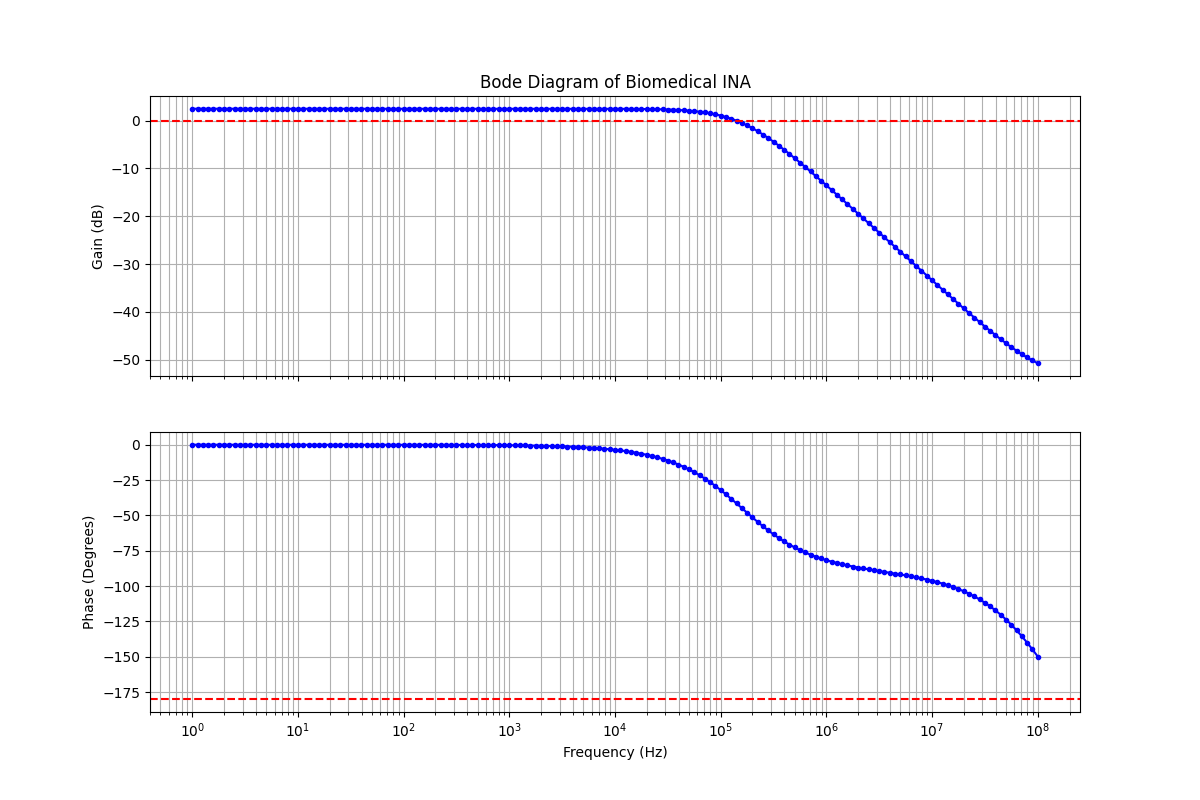
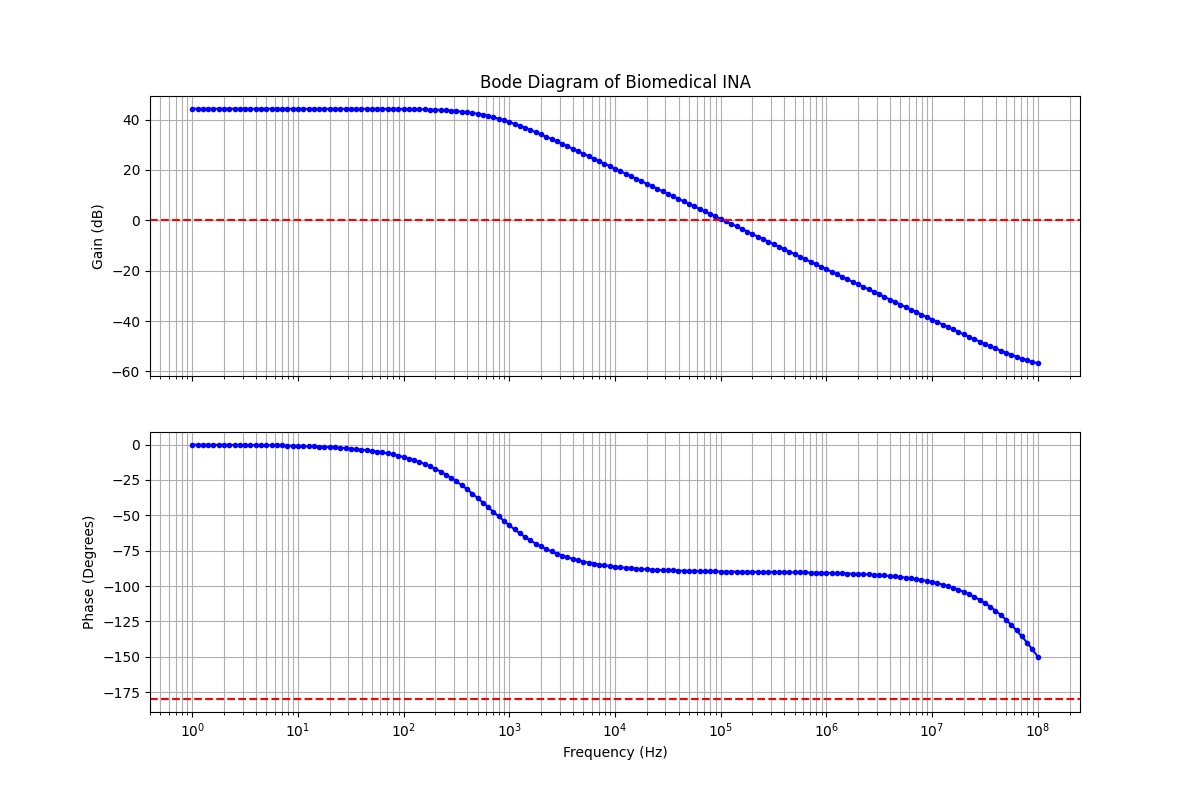
adding a cmfb circuit

diff --git a/pyspice/fdda_simulator.py b/pyspice/fdda_simulator.py
@@ -77,6 +77,45 @@ XMN10 net6 Vb2 0 0 sky130_fd_pr__nfet_01v8 L={params['L_5']} {g_5} sa=0 sb=0 sd=
     with open('fdda.spice', 'w') as f:
         f.write(content)
 
+def generate_cmfb(params):
+    def get_geom_string(w, nf):
+
+        w_val = float(w)
+        nf_val = int(nf)
+        
+        return (
+            f"W={w_val} nf={nf_val} "
+            f"ad='int(({nf_val}+1)/2) * {w_val}/{nf_val} * 0.29' "
+            f"as='int(({nf_val}+2)/2) * {w_val}/{nf_val} * 0.29' "
+            f"pd='2*int(({nf_val}+1)/2) * ({w_val}/{nf_val} + 0.29)' "
+            f"ps='2*int(({nf_val}+2)/2) * ({w_val}/{nf_val} + 0.29)' "
+            f"nrd='0.29 / {w_val}' nrs='0.29 / {w_val}'"
+        )
+
+    # Individual geometry strings for every group
+    g_1  = get_geom_string(params['W_1'], params['nf_1'])
+    g_4  = get_geom_string(params['W_4'], params['nf_4'])
+    g_5  = get_geom_string(params['W_5'], params['nf_5'])
+    g_6  = get_geom_string(params['W_6'], params['nf_6'])
+
+    content=f"""*CMFB auto generated
+.subckt CMFB VDD Vop Von Vcm Vb2 Vcmfb
+
+XMP9 n1 n1 VDD VDD sky130_fd_pr__pfet_01v8 L={params['L_1']} {g_1} sa=0 sb=0 sd=0
+XMP10 n2 n2 VDD VDD sky130_fd_pr__pfet_01v8 L={params['L_1']} {g_1} sa=0 sb=0 sd=0
+XMP13 Vcmfb Vcmfb VDD VDD sky130_fd_pr__pfet_01v8 L={params['L_6']} {g_6} sa=0 sb=0 sd=0
+XMN1 n1 Vop  nt1 0 sky130_fd_pr__nfet_01v8 L={params['L_4']} {g_4} sa=0 sb=0 sd=0
+XMN2 Vcmfb Vcm  nt1 0 sky130_fd_pr__nfet_01v8 L={params['L_4']} {g_4} sa=0 sb=0 sd=0
+XMN5 Vcmfb Vcm  nt2 0 sky130_fd_pr__nfet_01v8 L={params['L_4']} {g_4} sa=0 sb=0 sd=0
+XMN6 n2 Von  nt2 0 sky130_fd_pr__nfet_01v8 L={params['L_4']} {g_4} sa=0 sb=0 sd=0
+XMN7 nt1 Vb2 0 0 sky130_fd_pr__nfet_01v8 L={params['L_5']} {g_5} sa=0 sb=0 sd=0
+XMN8 nt2 Vb2 0 0 sky130_fd_pr__nfet_01v8 L={params['L_5']} {g_5} sa=0 sb=0 sd=0
+
+.ends CMFB
+
+"""
+    with open('cmfb.spice', 'w') as f:
+        f.write(content)
 
 
 def run_simulation(mode):
@@ -96,25 +135,28 @@ set no_note
 .param mc_pr_switch=0
 .lib /foss/pdks/sky130A/libs.tech/ngspice/sky130.lib.spice tt
 .include /foss/designs/os-ina-pso-mixdes_2026/pyspice/fdda.spice
+.include /foss/designs/os-ina-pso-mixdes_2026/pyspice/cmfb.spice
 """
     # pdk_path = '/foss/pdks/sky130A/libs.tech/ngspice/sky130.lib.spice'
     # circuit.lib('/foss/pdks/sky130A/libs.tech/ngspice/sky130.lib.spice', 'tt')
     # circuit.include('Opamp.spice')
 
     circuit.X('X1', 'FDDA', 'VDD', 'Vpp', 'Vpn', 'Vnp', 'Vnn', 'Vcmfb', 'Vb1', 'Vb2', 'Vb3', 'Vb4', 'Von', 'Vop')
+    circuit.X('X2', 'CMFB', 'VDD', 'Vop', 'Von', 'Vcm', 'Vb2', 'Vcmfb')
     
     circuit.V('vdd', 'VDD', circuit.gnd, 1.8@u_V)
     circuit.V('vb1', 'Vb1', circuit.gnd, 0.776@u_V)
     circuit.V('vb2', 'Vb2', circuit.gnd, 0.665@u_V)
     circuit.V('vb3', 'Vb3', circuit.gnd, 0.898@u_V)
     circuit.V('vb4', 'Vb4', circuit.gnd, 0.579@u_V)
-    # circuit.V('vb5', 'Vcmfb', circuit.gnd, 0.762@u_V)
-    circuit.R('rcm1', 'Vop', 'Vcm_sense', 1@u_MOhm)
-    circuit.R('rcm2', 'Von', 'Vcm_sense', 1@u_MOhm)
-    circuit.V('vcm', 'Vcmfb', 'Vcm_sense', 0@u_V)
+    circuit.V('vcm', 'Vcm', circuit.gnd, 0.9@u_V)
+    # circuit.V('vcmfb', 'Vcmfb', circuit.gnd, 0.76@u_V)
+    # circuit.R('rcm1', 'Vop', 'Vcm_sense', 1@u_MOhm)
+    # circuit.R('rcm2', 'Von', 'Vcm_sense', 1@u_MOhm)
+    # circuit.V('vcm', 'Vcmfb', 'Vcm_sense', 0@u_V)
     
-    circuit.C('load_p', 'Vop', circuit.gnd, 1@u_pF)
-    circuit.C('load_n', 'Von', circuit.gnd, 1@u_pF)
+    circuit.C('load_p', 'Vop', circuit.gnd, 2@u_pF)
+    circuit.C('load_n', 'Von', circuit.gnd, 2@u_pF)
     
 
 
@@ -142,6 +184,7 @@ set no_note
         # Check DC levels before looking at AC results
         print(f"DC Vop: {float(op_analysis.nodes['Vop'][0]):.3f} V")
         print(f"DC Von: {float(op_analysis.nodes['Von'][0]):.3f} V")
+        print(f"DC Vcmfb: {float(op_analysis.nodes['Vcmfb'][0]):.3f} V")
 
         freq = np.array(analysis.frequency)
         vout = analysis.nodes['Vop'] - analysis.nodes['Von']
@@ -228,29 +271,40 @@ set no_note
         print(f"I-Quiescent : {abs(iq)*1e6:.2f} uA")
 
     elif mode == 'TRANS':
-        circuit.V('vpp', 'Vpp', circuit.gnd, 'SIN(0.9V 1mV 100Hz)') 
-        circuit.V('vpn', 'Vpn', circuit.gnd, 'SIN(0.9V -1mV 100Hz)')
-        circuit.V('vnn', 'Vnn', circuit.gnd, 'dc 0.9')
-        circuit.V('vnp', 'Vnp', circuit.gnd, 'dc 0.9')
-        # circuit.V('cm', 'cm_node', circuit.gnd, 0.9@u_V)
+        # 1. Define Differential Inputs (Pair 1 active, Pair 2 grounded at DC)
+        # Using 10mV amplitude to see a clear output without railing 1.8V
+        circuit.V('vpp', 'Vpp', circuit.gnd, 'SIN(0.9V 10mV 100Hz)') 
+        circuit.V('vpn', 'Vpn', circuit.gnd, 'SIN(0.9V -10mV 100Hz)')
+        
+        # Pair 2 stays at Common Mode
+        circuit.V('vnp', 'Vnp', circuit.gnd, '0.9V')
+        circuit.V('vnn', 'Vnn', circuit.gnd, '0.9V')
 
-        simulator = circuit.simulator()
-        analysis = simulator.transient(step_time=10@u_us, end_time=50@u_ms)
+        simulator = circuit.simulator(simulator='ngspice-subprocess')
+        # Simulate for 3 full cycles of 100Hz (30ms)
+        analysis = simulator.transient(step_time=50@u_us, end_time=30@u_ms)
 
+        # 2. Extract results using lowercase node names
         time = np.array(analysis.time)
-        vout = np.array(analysis.out)
-        vin_p = np.array(analysis.in_p)
-        vin_n = np.array(analysis.in_n)
+        vop = np.array(analysis.nodes['Vop'])
+        von = np.array(analysis.nodes['Von'])
+        vpp = np.array(analysis.nodes['Vpp'])
+        vpn = np.array(analysis.nodes['Vpn'])
+        
+        v_out_diff = vop - von
+        v_in_diff = vpp - vpn
 
         print(f"\n--- TRANSIENT ANALYSIS ---")
         plt.figure(figsize=(10, 6))
-        plt.plot(time * 1e3, vout, label='Output (Vout)') # Changed to ms for 50Hz
-        plt.plot(time * 1e3, vin_p - vin_n, label='Input (Vin_diff)', linestyle='--')
+        
+        # Plot Differential Output and Input
+        plt.plot(time * 1e3, v_out_diff, label='Differential Output (Vop-Von)', color='blue')
+        plt.plot(time * 1e3, v_in_diff, label='Differential Input (Vpp-Vpn)', color='red', linestyle='--')
         
         plt.xlabel("Time (ms)")
         plt.ylabel("Voltage (V)")
         plt.legend()
-        plt.title("Transient Analysis: 100Hz Differential Response")
+        plt.title("FDDA Transient Response: 100Hz Differential Sine Wave")
         plt.grid(True)
         plt.savefig('Transient_analysis.png')
         plt.show()
@@ -258,7 +312,7 @@ set no_note
     elif mode == 'SLEW':
         circuit.V('input_p', 'Vpp', circuit.gnd, 'PULSE(0.9V 1.1V 150n 1n 1n 2500n 5000n)')
         circuit.V('input_n', 'Vnn', circuit.gnd, 'PULSE(0.9V 0.7V 150n 1n 1n 2500n 5000n)')
-        simulator = circuit.simulator()
+        simulator = circuit.simulator(simulator='ngspice-subprocess')
         analysis = simulator.transient(step_time=10@u_ns, end_time=50@u_us)
         
         time = np.array(analysis.time)
@@ -285,10 +339,11 @@ params = {
 }
 
 generate_spice_file(params)
+generate_cmfb(params)
 
 run_simulation('AC')
 # run_simulation('OP')
-# run_simulation('TRANS')
+run_simulation('TRANS')
 # run_simulation('SLEW')
 
 
